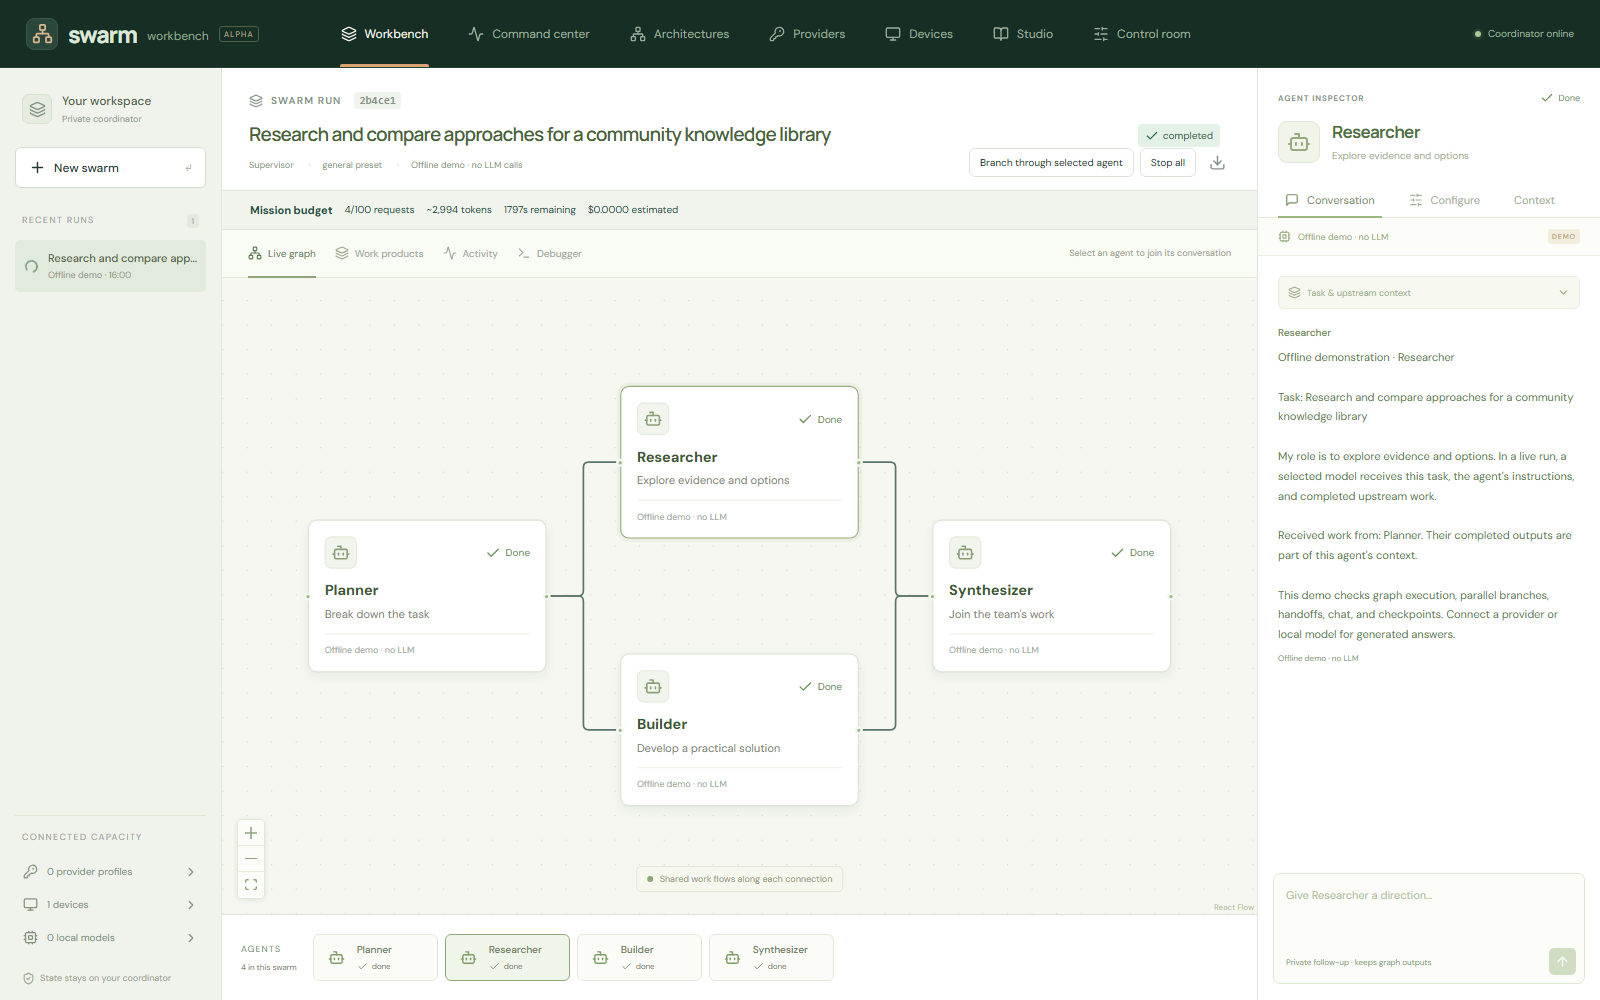
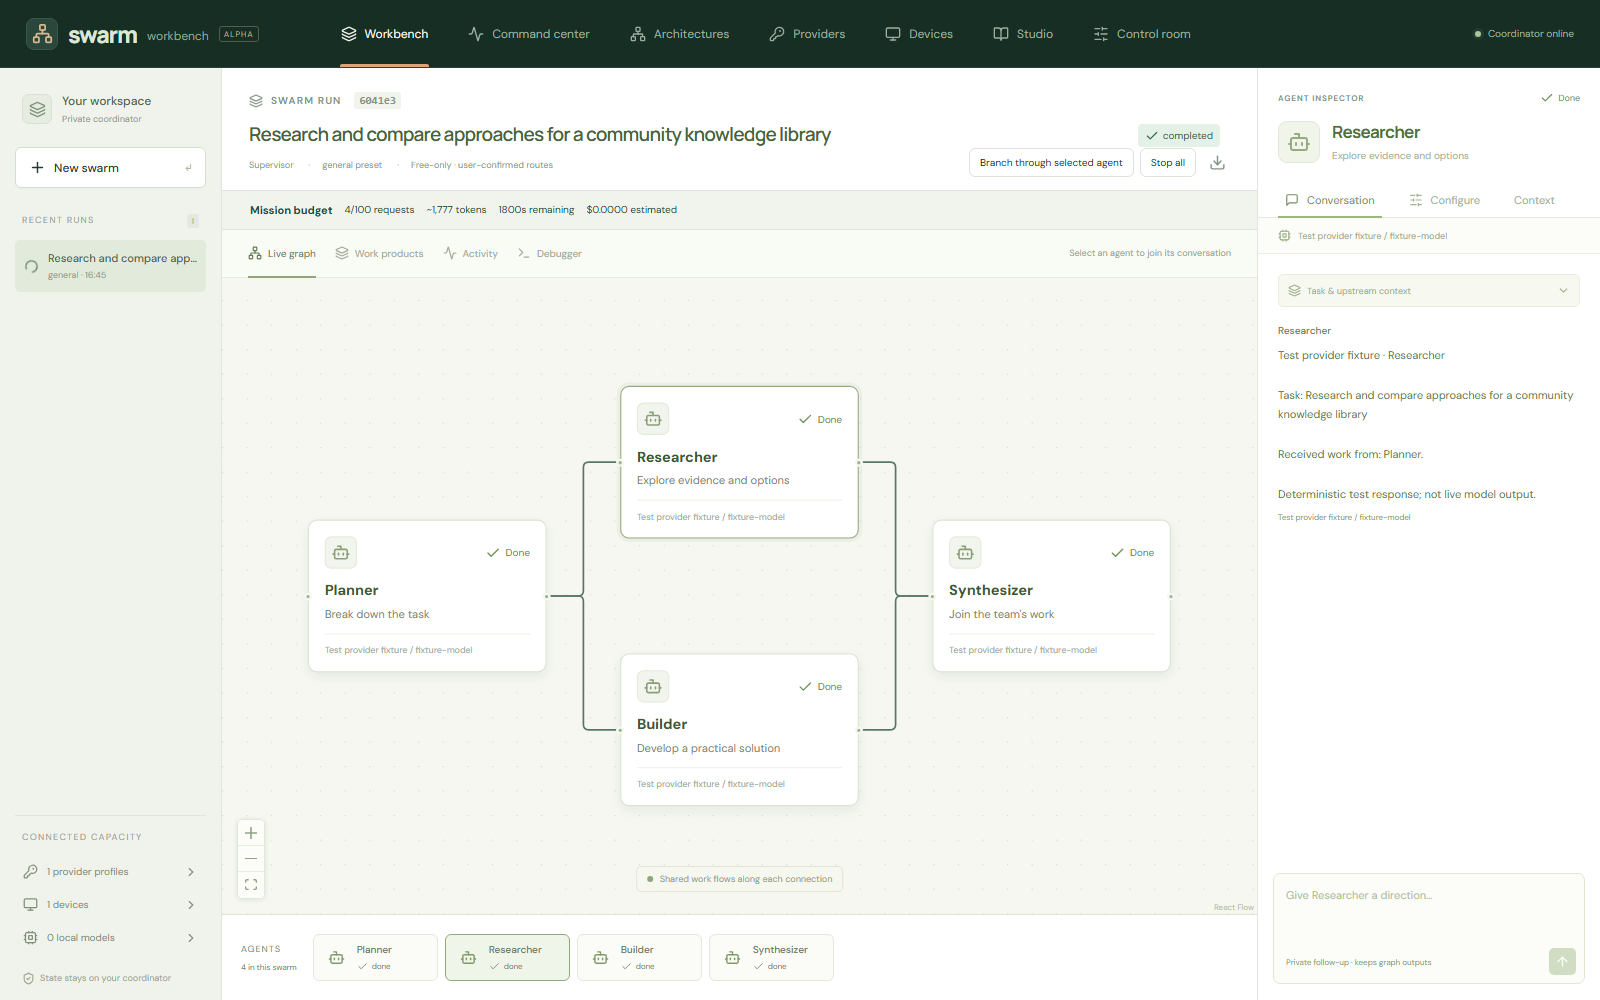
Refresh public previews and signed templates for connected models

diff --git a/public/index.html b/public/index.html
@@ -9,7 +9,7 @@
   <meta property="og:description" content="Your models, linked devices, and agent workflows. Together in one open-source desktop app.">
   <meta property="og:type" content="website">
   <meta property="og:url" content="https://swarms.grafitelab.in/">
-  <meta property="og:image" content="https://swarms.grafitelab.in/download-assets/workbench.png">
+  <meta property="og:image" content="https://swarms.grafitelab.in/download-assets/workbench.png?v=3">
   <title>Swarmfree — Download Swarm Workbench</title>
   <link rel="canonical" href="https://swarms.grafitelab.in/">
   <link rel="icon" href="./download-assets/mark.svg" type="image/svg+xml">
@@ -44,8 +44,8 @@
       <div class="hero-intro"><p>Connect your models, provider accounts, and other computers. Design a team of agents, then follow and direct their work in one desktop app.</p><a class="button button-primary" href="#download">Download the app<svg class="icon" aria-hidden="true"><use href="#icon-download"/></svg></a><div class="hero-meta"><span class="release-label" data-release-label>Alpha release</span><span class="meta-divider"></span><span>Free &amp; MIT licensed</span></div></div>
     </section>
     <section class="product-section container" id="workbench" aria-label="The workbench preview">
-      <div class="preview-label"><span><span class="section-number">01</span> THE WORKBENCH</span><a href="./download-assets/workbench.png" data-preview>View full preview<svg class="icon icon-small" aria-hidden="true"><use href="#icon-out"/></svg></a></div>
-      <figure class="product-frame"><img src="./download-assets/workbench.png" width="1600" height="1000" alt="Swarm Workbench showing a completed offline demo: a planner hands work to a researcher and builder, then a synthesizer joins the results. The selected researcher's conversation is visible on the right." fetchpriority="high"><figcaption><span class="caption-title"><span class="status-dot"></span>Every agent. Every handoff. In view.</span><span>Actual app interface · offline demo</span></figcaption></figure>
+      <div class="preview-label"><span><span class="section-number">01</span> THE WORKBENCH</span><a href="./download-assets/workbench.png?v=3" data-preview>View full preview<svg class="icon icon-small" aria-hidden="true"><use href="#icon-out"/></svg></a></div>
+      <figure class="product-frame"><img src="./download-assets/workbench.png?v=3" width="1600" height="1000" alt="Swarm Workbench showing an example workflow: a planner hands work to a researcher and builder, then a synthesizer joins the results. The selected researcher's conversation is visible on the right." fetchpriority="high"><figcaption><span class="caption-title"><span class="status-dot"></span>Every agent. Every handoff. In view.</span><span>Actual app interface · test provider fixture</span></figcaption></figure>
       <div class="model-strip" aria-label="Supported model connections"><p>Bring the models you use.</p><div><span>Ollama</span><span>Gemini</span><span>Groq</span><span>OpenRouter</span><span class="compatible-label">Compatible APIs</span></div></div>
     </section>
     <section class="workflow-section container" id="workflow" aria-labelledby="workflow-title">
@@ -70,6 +70,6 @@
     <section class="closing-section container" aria-labelledby="closing-title"><div><p class="eyebrow">BUILT IN THE OPEN</p><h2 id="closing-title">Open source. Yours to build on.</h2><p>MIT licensed. Inspect the source, shape the project,<br>or build something of your own.</p></div><a class="button button-outline" href="https://github.com/AngadBasandrai/swarmfree"><svg class="icon" aria-hidden="true"><use href="#icon-github"/></svg>Explore the source<svg class="icon" aria-hidden="true"><use href="#icon-out"/></svg></a></section>
   </main>
   <footer class="site-footer"><div class="container footer-inner"><a class="brand" href="./" aria-label="Swarmfree home"><span class="brand-mark"><svg aria-hidden="true"><use href="#icon-mark"/></svg></span><span>swarmfree<span class="brand-dot">.</span></span></a><span class="footer-description">An open-source desktop workbench.</span><nav aria-label="Footer navigation"><a href="https://github.com/AngadBasandrai/swarmfree/blob/main/README.md">Documentation</a><a href="https://github.com/AngadBasandrai/swarmfree/issues">Issues</a><a href="https://github.com/AngadBasandrai/swarmfree/blob/main/LICENSE">MIT license</a></nav></div></footer>
-  <dialog class="preview-dialog" aria-label="Full workbench preview"><div class="dialog-toolbar"><span>Swarm Workbench · offline demo</span><button type="button" class="close-preview" aria-label="Close preview"><svg class="icon" aria-hidden="true"><use href="#icon-close"/></svg></button></div><img src="./download-assets/workbench.png" alt="Full-size Swarm Workbench interface showing an offline demo with four agents and the researcher conversation."></dialog>
+  <dialog class="preview-dialog" aria-label="Full workbench preview"><div class="dialog-toolbar"><span>Swarm Workbench · test provider fixture</span><button type="button" class="close-preview" aria-label="Close preview"><svg class="icon" aria-hidden="true"><use href="#icon-close"/></svg></button></div><img src="./download-assets/workbench.png?v=3" alt="Full-size Swarm Workbench interface showing an example workflow with four agents and the researcher conversation."></dialog>
 </body>
 </html>
